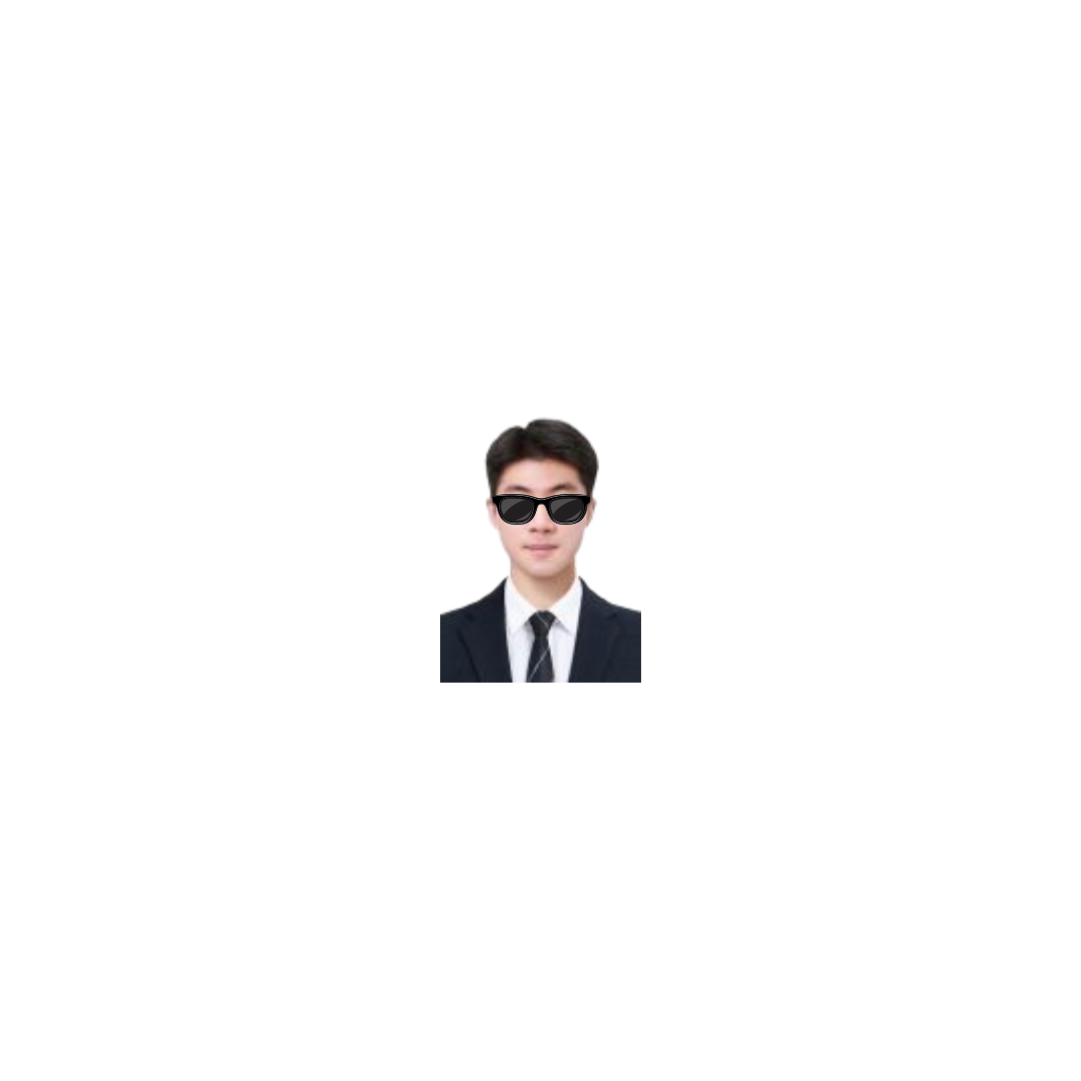
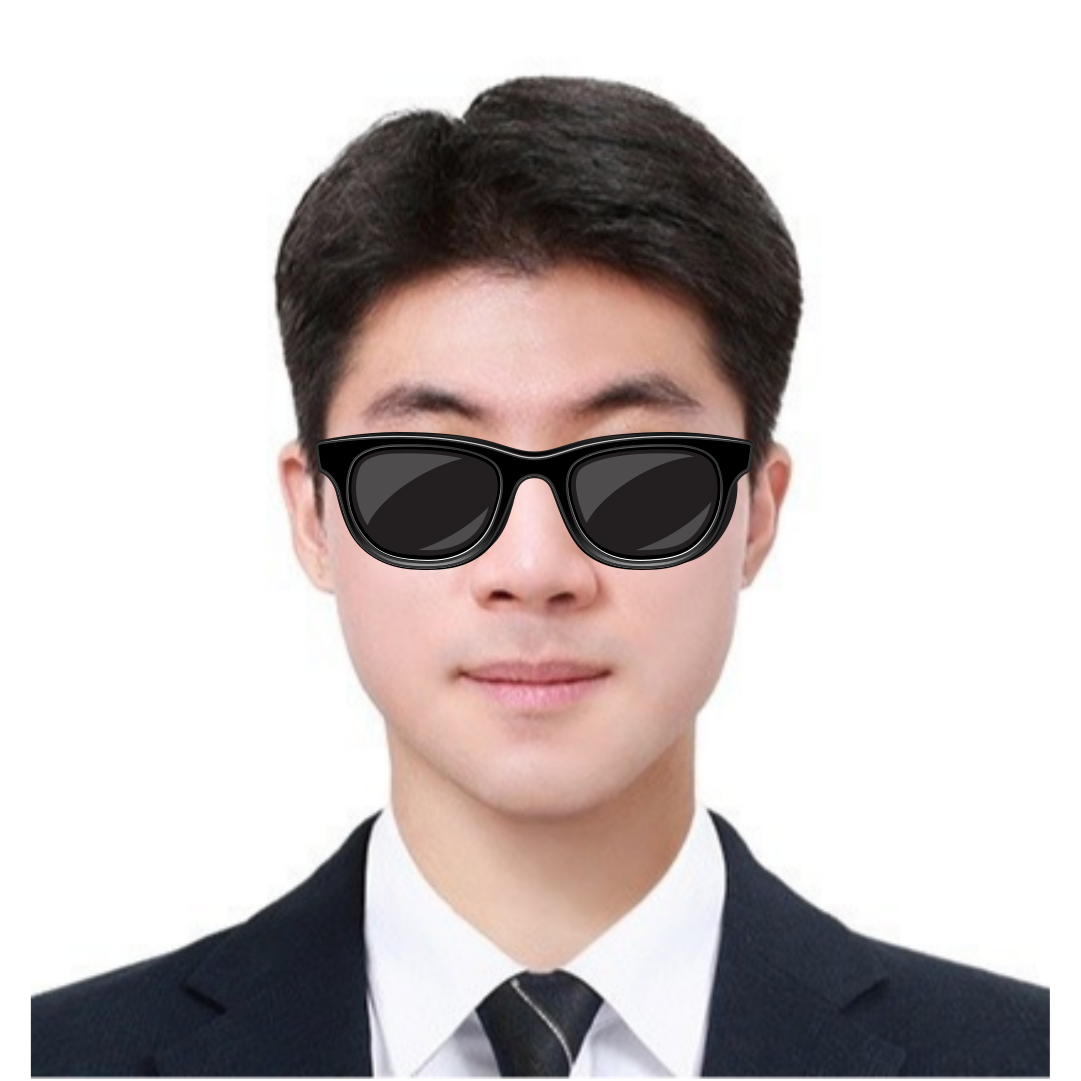
이미지 변경

diff --git a/index.html b/index.html
@@ -57,7 +57,7 @@
     <!-- Hero Section -->
     <section id="hero" class="hero section light-background">
 
-      <img src="assets/img/hero-bg.jpg" alt="">
+      <img src="assets/img/person.jpg" alt="">
 
       <div class="container" data-aos="zoom-out">
         <div class="row justify-content-center">
@@ -91,7 +91,7 @@
 
       <div class="row gy-4 justify-content-center">
         <div class="col-lg-4">
-          <img src="assets/img/profile-img.jpg" class="img-fluid" alt="프로필 이미지">
+          <img src="assets/img/profile.png" class="img-fluid" alt="프로필 이미지">
         </div>
         <div class="col-lg-8 content">
           <h2>백엔드 개발자 & 데이터 분석가</h2>
